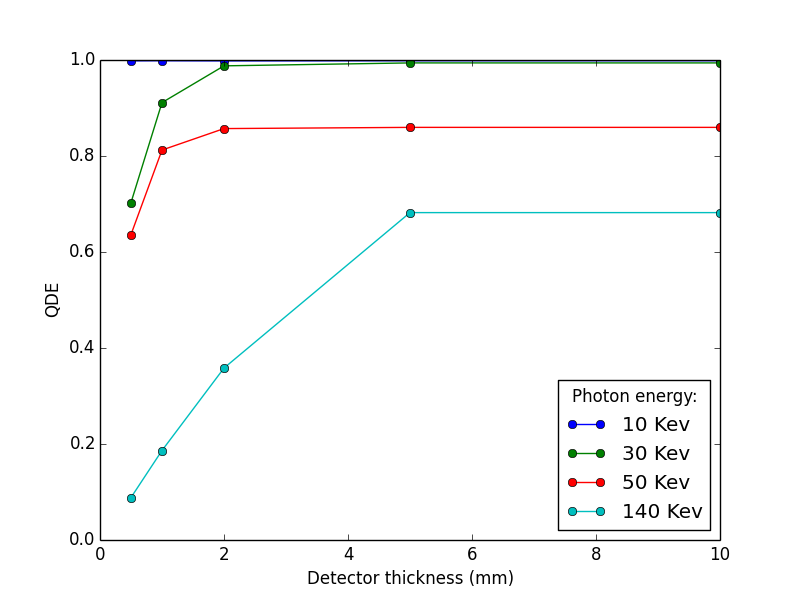
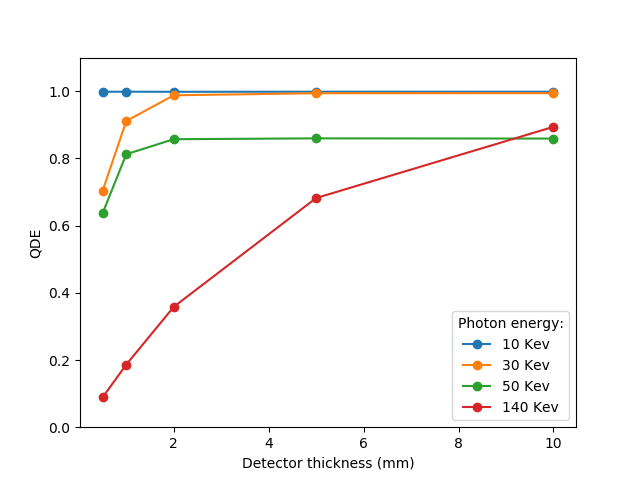
add stuff

diff --git a/plots/second.py b/plots/second.py
@@ -1,11 +1,11 @@
 import matplotlib.pyplot as plt
 
 # Look at the ods for reference (Because I am an Horrible Person)
-data = [[0.99831, 0.70302, 0.63643, 0.08849],
-[0.99853, 0.91125, 0.81241, 0.18645],
-[0.99822, 0.98782, 0.85712, 0.35822],
-[0.99848, 0.99394, 0.85964, 0.68205],
-[0.99848, 0.99394, 0.85964, 0.68205]]
+data = [[0.99831,0.70302,0.63643,0.08849],
+[0.99853,0.91125,0.81241,0.18645],
+[0.99822,0.98782,0.85712,0.35822],
+[0.99848,0.99394,0.85964,0.68205],
+[0.99843,0.99414,0.85900,0.89394]]
 
 tdata = []
 for j in range(0,4):
@@ -44,6 +44,8 @@ plt.plot(thickness, tdata[0], marker = "o", label = "10 Kev")
 plt.plot(thickness, tdata[1], marker = "o", label = "30 Kev")
 plt.plot(thickness, tdata[2], marker = "o", label = "50 Kev")
 plt.plot(thickness, tdata[3], marker = "o", label = "140 Kev")
+
+plt.ylim(0,1.1)
 
 plt.legend(title = "Photon energy:",loc=4)
 plt.savefig("qde_th.png")

diff --git a/plots/third.py b/plots/third.py
@@ -1,0 +1,12 @@
+import matplotlib.pyplot as plt
+
+contrast = [0.3, 0.38, 0.5, 0.6]
+error = [0.1, 0.09, 0.08, 0.07]
+thickness = [4, 6, 8, 10]
+
+plt.xlabel("Box thickness (mm)")
+plt.ylabel("Contrast")
+
+plt.errorbar(thickness, contrast, yerr=error, marker='o')
+
+plt.savefig("contrast.png")
